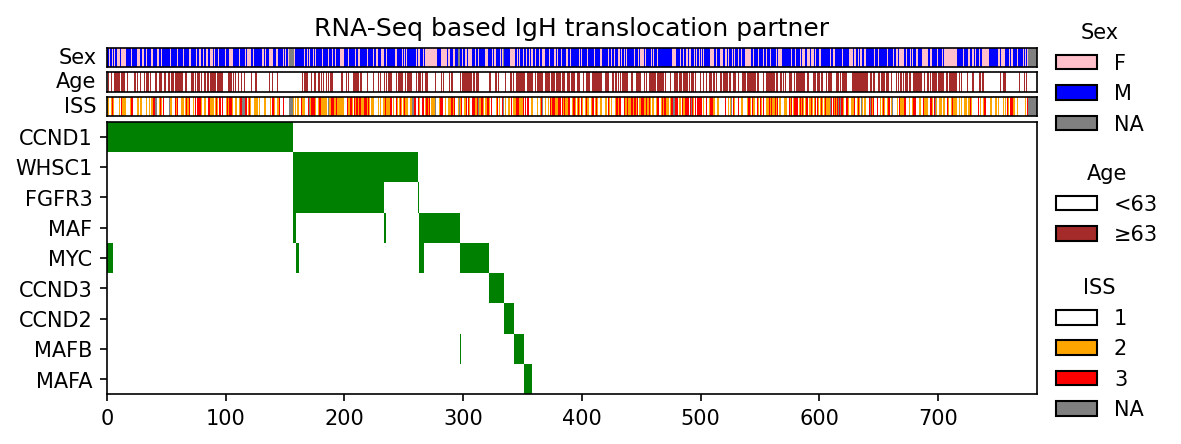
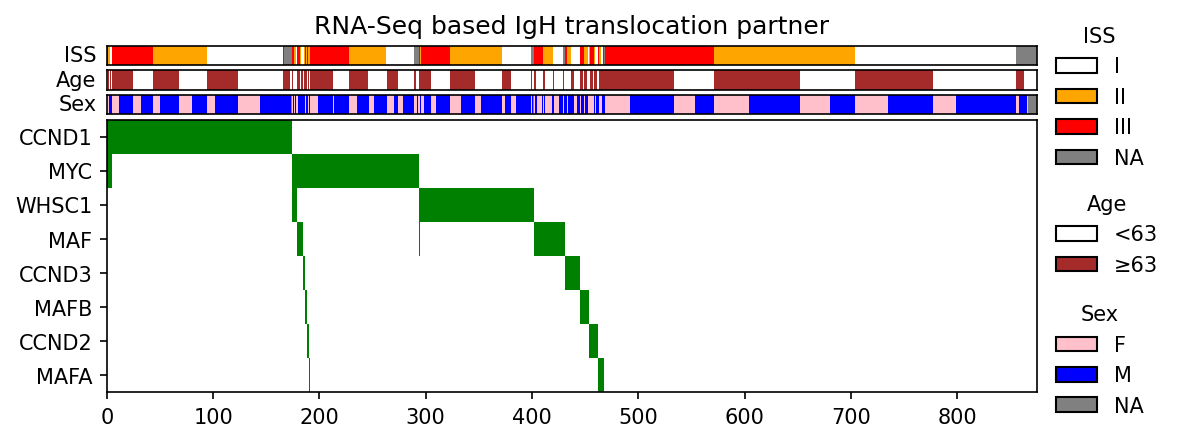
IgH subtypes oncoplot

diff --git a/utils/oncoplot.py b/utils/oncoplot.py
@@ -18,7 +18,7 @@ data = data.copy().set_index('PUBLIC_ID')
 data.columns = data.columns.str.split('_').str[2]
 
 # categorical data for top/bottom axes
-clin_cols = ['ISS','OLD','SEX']
+extra_covariates = ['ISS','OLD','SEX']
 side = pd.read_csv(os.environ.get("CLINDATAFILE"), sep='\t')\
     .set_index('PUBLIC_ID')\
     .merge(data, left_index=True, right_index=True, how='right')\
@@ -26,9 +26,10 @@ side = pd.read_csv(os.environ.get("CLINDATAFILE"), sep='\t')\
             SEX = lambda df: df['D_PT_gender'].fillna(3).astype('int') - 1,
             OLD = lambda df: (df['D_PT_age'] >= 63).fillna(2).astype('int'))\
     .loc[lambda df: df.index.isin(data.index), :]\
-    [clin_cols]
+    [extra_covariates]
     
 full_data = pd.concat([data,side],axis=1)
+# full_data = data
 
 # Order the samples using the oncoplot algorithm
 def oncoplot_ordering(data):
@@ -39,49 +40,28 @@ def oncoplot_ordering(data):
         
         # Order columns by column-wise sum
         primary_col = ordered_columns[depth]
-        
-        # handle ISS which is 1-4
-        if primary_col == 'ISS':
-            group_1 = data[data[primary_col] == 1]
-            group_2 = data[data[primary_col] == 2]
-            group_3 = data[data[primary_col] == 3]
-            group_4 = data[data[primary_col] == 4] # NA
-            ordered_indices_1 = recursive_ordering(group_1, depth + 1)
-            ordered_indices_2 = recursive_ordering(group_2, depth + 1)
-            ordered_indices_3 = recursive_ordering(group_3, depth + 1)
-            ordered_indices_4 = recursive_ordering(group_4, depth + 1) # NA
-            return ordered_indices_3 + ordered_indices_2 + ordered_indices_1 + ordered_indices_4
-
-        # handle OLD or SEX which is 0-2
-        if primary_col in ['OLD','SEX']:
-            group_0 = data[data[primary_col] == 0]
-            group_1 = data[data[primary_col] == 1]
-            group_2 = data[data[primary_col] == 2] # NA
-            ordered_indices_0 = recursive_ordering(group_0, depth + 1)
-            ordered_indices_1 = recursive_ordering(group_1, depth + 1)
-            ordered_indices_2 = recursive_ordering(group_2, depth + 1) # NA
-            return ordered_indices_1 + ordered_indices_0 + ordered_indices_2
-        
+                
         # The remaining are IGH partner columns
         # Divide observations into groups based on the primary column
-        group_1 = data[data[primary_col] == 1]
-        group_0 = data[data[primary_col] == 0]
         
-        # Recursively order within each group
-        ordered_indices_1 = recursive_ordering(group_1, depth + 1)
-        ordered_indices_0 = recursive_ordering(group_0, depth + 1)
+        ordered_indices = []
         
-        # Combine the ordered indices
-        return ordered_indices_1 + ordered_indices_0
+        for value in sorted(data[primary_col].unique())[::-1]:
+            # subset to observations with the same value
+            group_v = data[data[primary_col] == value]
+            # Recursively order within each group
+            ordered_indices_v = recursive_ordering(group_v, depth + 1)
+            # Combine the ordered indices
+            ordered_indices.extend(ordered_indices_v)
+        
+        return ordered_indices
     
     # Start the recursive ordering
     ordered_columns = data.sum(axis=0).sort_values(ascending=False).index
-    # Ensure clin columns appear last
-    # for col in clin_cols:
-    #     if col in ordered_columns:
-    #         ordered_columns = ordered_columns.drop(col)
-    ordered_columns = ordered_columns.drop(clin_cols)
-    ordered_columns = ordered_columns.append(pd.Index(clin_cols))
+    
+    # Order additional columns appear last
+    ordered_columns = ordered_columns.drop(extra_covariates)
+    ordered_columns = ordered_columns.append(pd.Index(extra_covariates))
     ordered_indices = recursive_ordering(data.loc[:, ordered_columns])
     return data.loc[ordered_indices, ordered_columns]
 
@@ -93,6 +73,12 @@ ordered_colnames = ordered_data_full.columns[:-3]
 clin_colnames = ordered_data_full.columns[-3:]
 ordered_data = ordered_data_full[ordered_colnames]
 ordered_clin = ordered_data_full[clin_colnames]
+
+# ordered_data = ordered_data_full
+# ordered_colnames = ordered_data_full.columns 
+# ordered_clin = side 
+# clin_colnames = side.columns
+
 
 plt.clf(); 
 ax = plt.gca()
@@ -178,7 +164,8 @@ ax_sex.legend(handles=sex_legend_elements, title='Sex', bbox_to_anchor=(1, -9), 
 
 
 plt.title('RNA-Seq based IgH translocation partner')
-plt.show()
 
 plt.gcf().set_size_inches(8, 3)
-plt.savefig('assets/heatmap_igh_sides.png', dpi=150, bbox_inches='tight')
+plt.savefig('assets/heatmap_igh_sides_medium.png', dpi=150, bbox_inches='tight')
+
+# plt.show()
